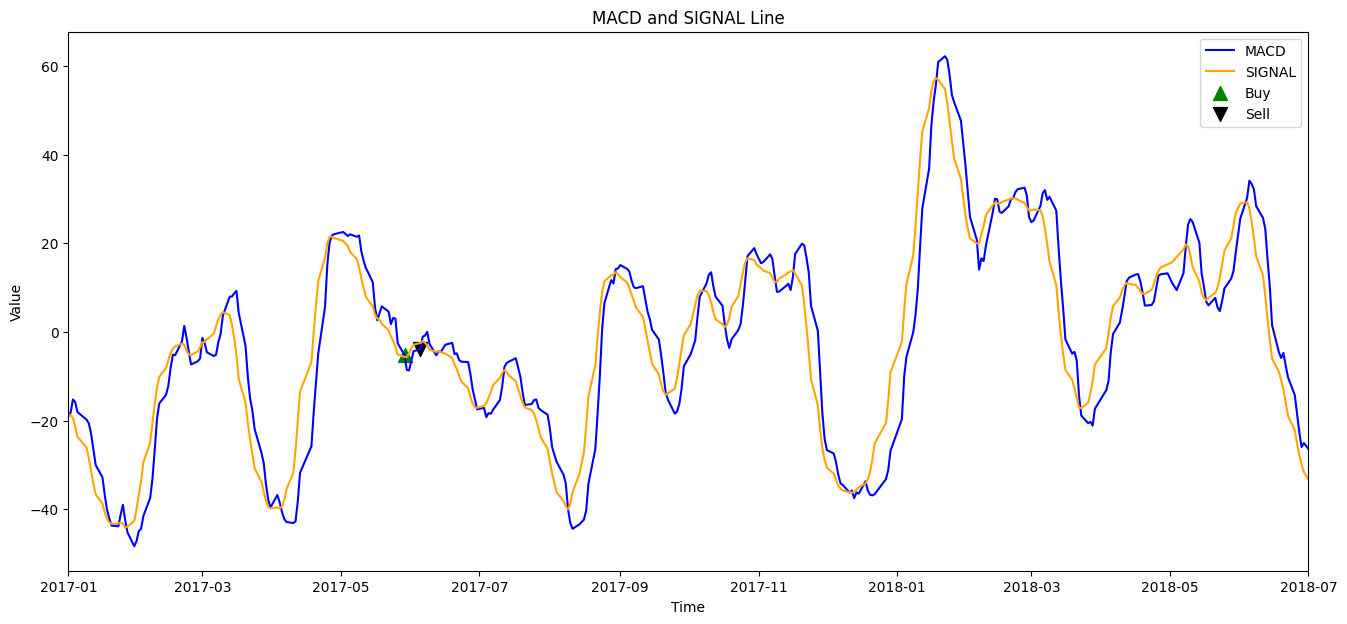
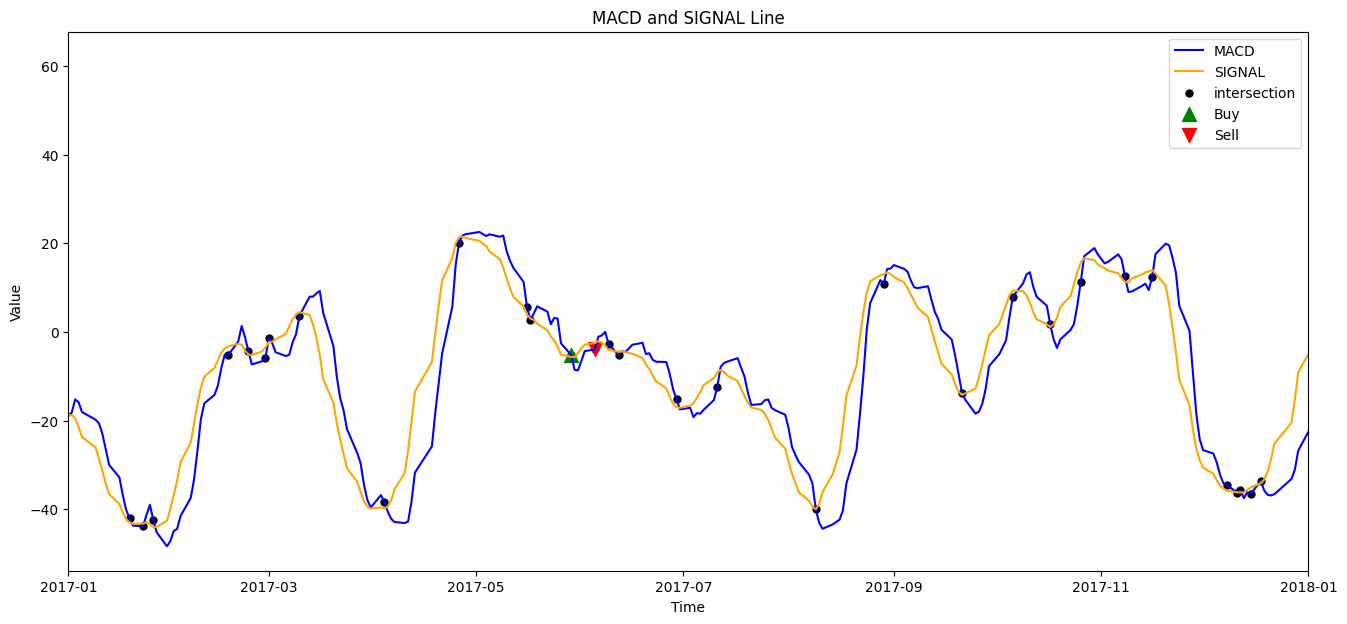
Add analysis and figures for MACD trading transactions in the report

diff --git a/MACD_report.tex b/MACD_report.tex
@@ -108,6 +108,61 @@ z częstszym zyskiem niż stratą, przy pomijaniu niektórych sygnałów kupna\
 lub sprzedaży.
 \subsection{Analiza poszczególnych transakcji kupna-sprzedaży}
 \subsubsection{Analiza transakcji złożonej z dwóch sąsiednich sygnałów kupna i sprzedaży}
+\begin{figure} [H]
+    \begin{flushleft}
+    \includegraphics[width=1.2\textwidth]{wykresy/MACD and SIGNAL for 3.2.1.png}
+    \caption{Wykres MACD i SIGNAL dla sąsiednich transakcji}
+    \label{fig:MACD_SIGNAL}
+    \end{flushleft}
+\end{figure}
+\begin{figure} [H]
+    \begin{flushleft}
+    \includegraphics[width=1.2\textwidth]{wykresy/notowania for 3.2.1.png}
+    \caption{Notowania z zaznaczoną jedną sąsiednią transakcją\
+    i przecięciami linii MACD i SIGNAL}
+    \label{fig:MACD_SIGNAL}
+    \end{flushleft}
+\end{figure}
+
+Dla zaprezentowanego przykładu transakcji widoczna jest strata\
+wynosząca 47.57 PLN, ponieważ wartość podczas sygnału zakupu wynosiła 2323.58 PLN,\
+a wartość podczas sygnału sprzedaży 2276.01 PLN.\
+Z tego przykładu można wysunąć wniosek, że wskaźnik\
+giełdowy MACD nie nadaje się do inwestycji krótkoterminowych,\
+ponieważ może przynieść stratę.
+Co również widoczne jest na wykresie 1 z zaznaczonymi wszystkimi\
+sygnałami kupna i sprzedaży przypadającymi na okes, że\
+dostosowywanie się do sąsiednich sygnałów częściej może zakończyć się\
+stratą.
+
+\subsubsection{Analiza transakcji złożonych z dwóch odległych od siebie\
+punktów kupna i sprzedaży}
+\begin{figure} [H]
+    \begin{flushleft}
+    \includegraphics[width=1.2\textwidth]{wykresy/MACD and SIGNAL for 3.2.2.png}
+    \caption{Wykres MACD i SIGNAL dla odległych transakcji}
+    \label{fig:MACD_SIGNAL}
+    \end{flushleft}
+\end{figure}
+\begin{figure} [H]
+    \begin{flushleft}
+    \includegraphics[width=1.2\textwidth]{wykresy/notowania for 3.2.2.png}
+    \caption{Notowania z zaznaczoną jedną odległą transakcją\
+    i przecięciami linii MACD i SIGNAL}
+    \label{fig:MACD_SIGNAL}
+    \end{flushleft}
+\end{figure}
+\
+Jak widać na wykresie zaprezentowana transakcja\
+zakończyła się zyskiem\
+(wynika to również z danych: cena kupna to: 2323.58 PLN, cena sprzedaży:\
[phone redacted] PLN, a więc zysk wyniósł 87.53 PLN)\
+Widoczne jest to, że jakby była to również transakcja wynikająca\
+z któregoś z innych sygnałów sprzedaży w okolicy obecnego, również zakończyłaby się\
+zyskownie, jednak zysk mógłby się różnić.
+
+
+\section{Symulacja}
 
 
 \section{Wnioski}